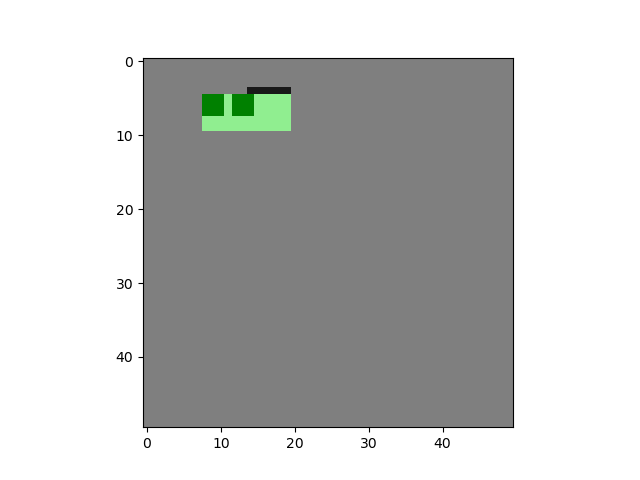
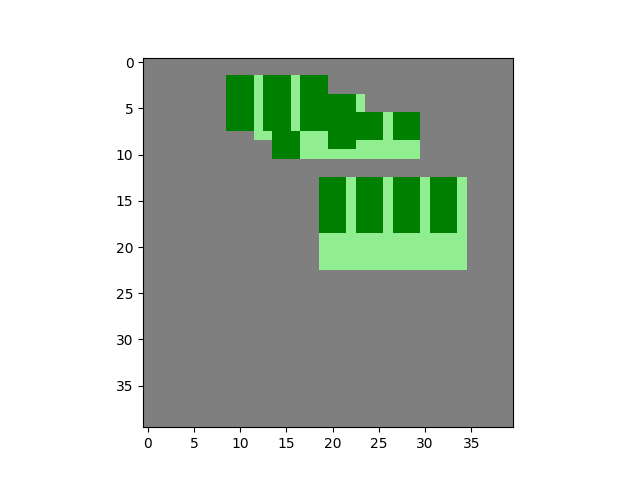
trees added in y axis

diff --git a/TreeDegree/functions.py b/TreeDegree/functions.py
@@ -2,9 +2,10 @@ from re import X
 from turtle import xcor
 import numpy as np
 
-temp=['A','B','C','D','E','F','G','H','I','J','K','L','M','N','O','P','R','S','T','U','V','W','X','Y','Z']
+
 
 def selectQuad(pick, sizeX, sizeY):
+    temp=['A','B','C','D','E','F','G','H','I','J','K','L','M','N','O','P','R','S','T','U','V','W','X','Y','Z']
     x=0
     y=0
     numStr=""
@@ -59,20 +60,27 @@ def algorithm(tab,option):
                      x0,y0=findStart(G)
                      blacklist=checkAround(tab,G)
                      temp=0
-                     temp2=G[:,0]
+                     temp2=len(G)
                      print(temp2)
-                     while(temp<len(G)):
+                     while(temp<temp2):
                         if canWholeTree(G,tab,size,(x0+offset[0],y0+offset[1])) and not checkFound((x0+offset[0],y0+offset[1]),blacklist) :
                              x,y=canWholeTree(G,tab,size,(x0+offset[0],y0+offset[1]))
-                             print(x0+offset[0],y0+offset[1])
+                             #print(x0+offset[0],y0+offset[1])
                              tab,G=putTree(tab,size,(x,y),G)  
                              offset[1]+=size
                         offset[1]+=1
-                        print('temp:',temp,'temp2:',temp2,'G0:',G[:,0][temp])
-                        
-                        #if G[:,0][temp]!=temp2:
-                        #    temp2=G[:,0][temp]
-                        #    offset[0]+=1
+                        maxi=0
+                        maxG=0
+                        while maxi<len(G):
+                            maxG=max(maxG, G[maxi][1]) 
+                            #print(i,"gio",G[maxi][0],"goooff",G[0][0]+offset[0], offset[0])
+                            if G[maxi][0]==G[0][0]+offset[0]:
+                                break
+                            maxi+=1
+                        print(maxG)
+                        if offset[1]>maxG:
+                            offset[0]+=1
+                            offset[1]=0
                         temp+=1
 
                  elif tab[i][j]==0:

diff --git a/TreeDegree/TreeDegree.py b/TreeDegree/TreeDegree.py
@@ -105,14 +105,15 @@ while True:  # Event Loop
                         sg.Popup("Picked quadrant out of range")
                     else:
                         xl,yl=func.selectQuad(left,c[0],c[1])
+                        yp=yl
                         xr,yr=func.selectQuad(right,c[0],c[1])
                         while True:
                             buildArr[xl][yl]=count+1
                             wnd.window[(xl,yl)].update(button_color=colorButn[count+1])
                             if xl==xr and yl==yr:
                                 break
-                            elif yl==c[1]-1:
-                                yl=0
+                            elif yl==yr:
+                                yl=yp
                                 xl+=1
                             else:
                                 yl+=1 
@@ -142,13 +143,14 @@ while True:  # Event Loop
                         sg.Popup("Picked quadrant out of range")
                     else:
                         xl,yl=func.selectQuad(left,c[0],c[1])
+                        yp=yl
                         xr,yr=func.selectQuad(right,c[0],c[1])
                         while True:
                             buildArr[xl][yl]=0
                             if xl==xr and yl==yr:
                                 break
-                            elif yl==c[0]-1:
-                                yl=0
+                            elif yl==yr:
+                                yl=yp
                                 xl+=1
                             else:
                                 yl+=1          

diff --git a/TreeDegree/moduł1.py b/TreeDegree/moduł1.py
@@ -108,29 +108,28 @@ data=np.zeros((size,size))
 
 #print(data)
 width, height = size, size
+coords=np.array([[]])
 a, b = int(size/2),int(size/2)
 r = int(size/2)
 data[a][b]=1
 for angle in range(0, 360, 5):
     x = r * math.sin(math.radians(angle)) + a
     y = r * math.cos(math.radians(angle)) + b
+    
     data[int(round(y))][int(round(x))] = 1
  #nie dziala v
-def fill_circle(grid):
-    for r in grid:  # For each row
-        j1 = None  # left endpoint
-        j2 = None  # right endpoint
-        for j, v in enumerate(r):
-            if v == 1 and j1 is None:
-                j1 = j
-                continue
-            if v == 1 and j2 is None:
-                j2 = j
-                break
-        else:  # Did not find j1 AND j2
-            continue
-        for j in range(j1, j2):  # Fill all points between
-            r[j] = 1
-fill_circle(data)
+def fill_circle(grid,a,b,r):
+    return 0;
+
+fill_circle(data,a,b,r)
 print(data)
 
+#0
+#G=np.array([[1,2],[1,5],[2,3],[2,8],[14,1]])
+#print(G)
+#i=0
+#maxG=0
+#while G[i][0]==1:
+#    maxG=max(maxG, G[i][1])
+#    i+=1
+#print(maxG)
